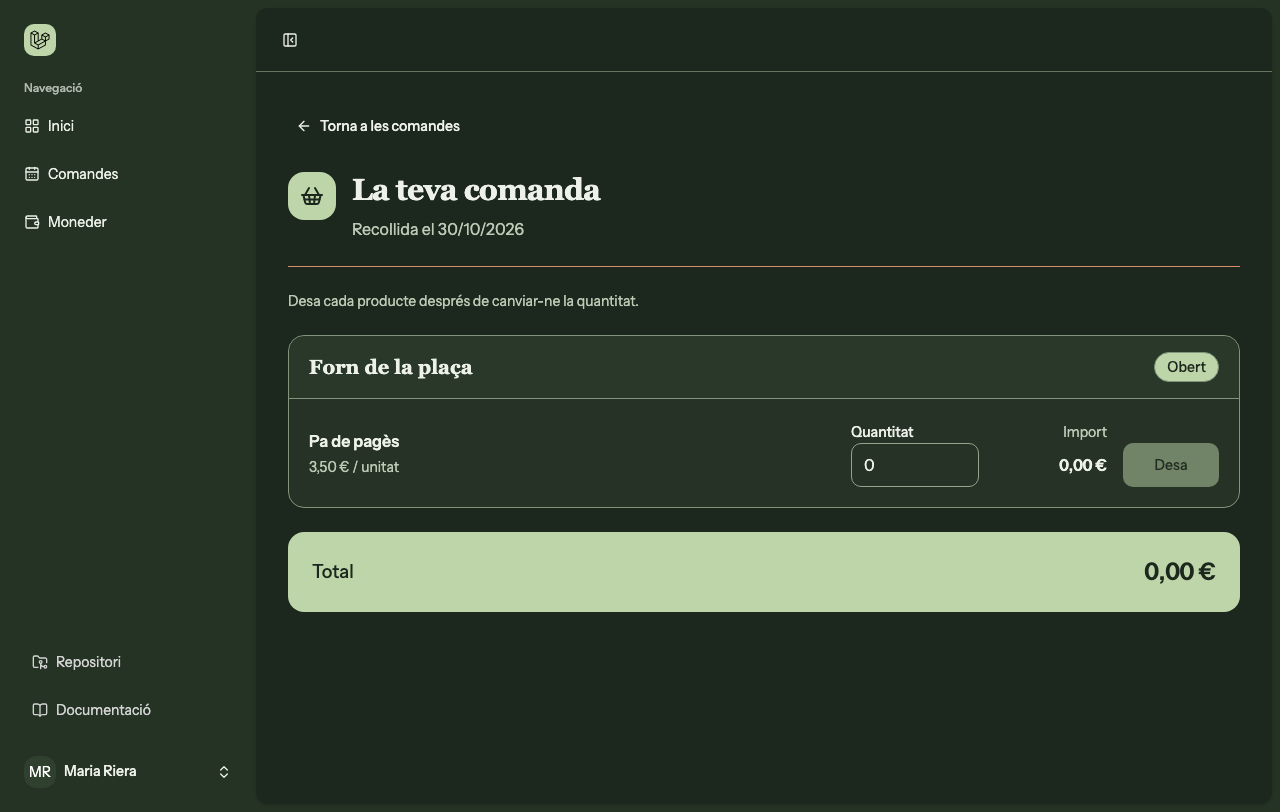
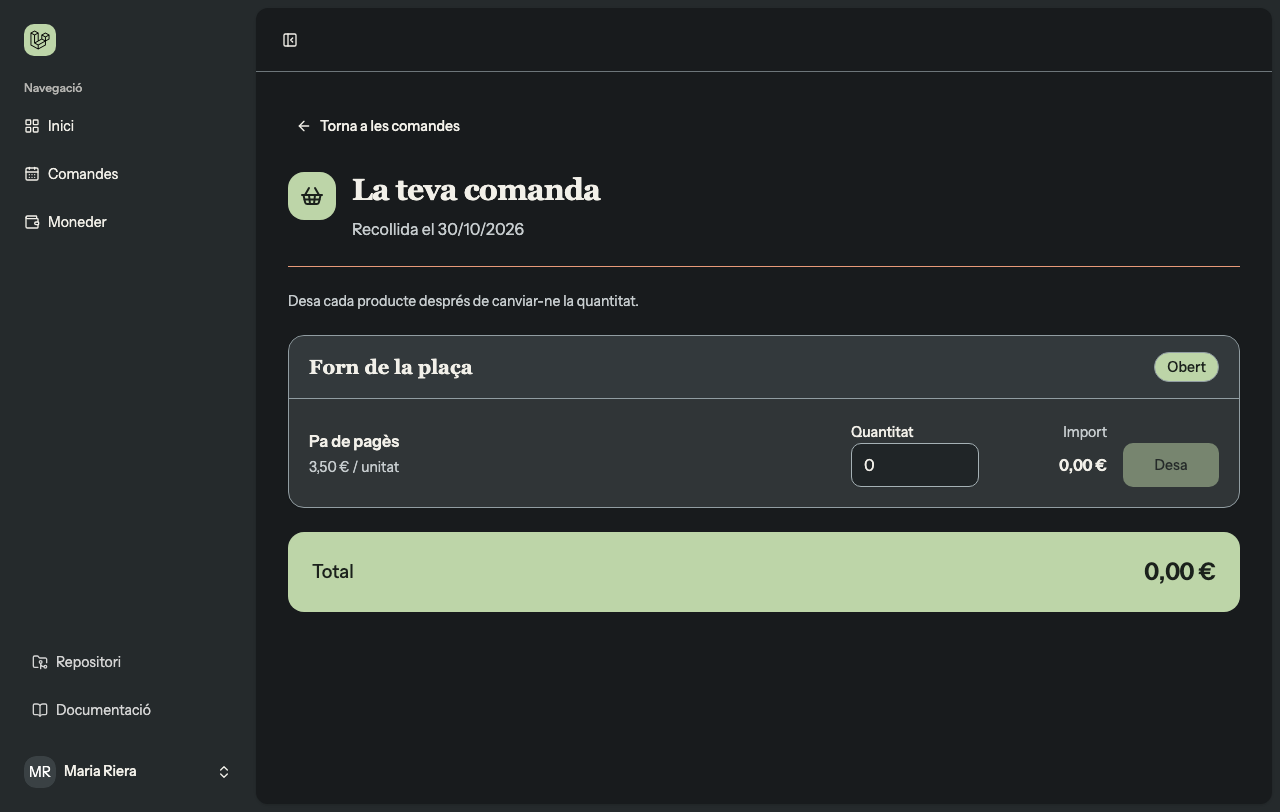
fix(ui): clarify scoped dark surfaces (DRA-190)

Changed region(s): [[0.25, 0.5542, 0.2812, 0.585]]

diff --git a/resources/css/app.css b/resources/css/app.css
@@ -202,39 +202,40 @@
 }
 
 .dark .pilot-theme {
-    --background: #1c271d;
-    --foreground: #edf1e8;
-    --card: #263226;
-    --card-foreground: #edf1e8;
-    --popover: #2b382a;
-    --popover-foreground: #edf1e8;
+    --background: #181b1d;
+    --foreground: #f2f0e9;
+    --card: #303537;
+    --card-foreground: #f2f0e9;
+    --popover: #3b4245;
+    --popover-foreground: #f2f0e9;
     --primary: #bdd5a8;
-    --primary-foreground: #1c271d;
-    --secondary: #354936;
-    --secondary-foreground: #edf1e8;
-    --muted: #30402f;
-    --muted-foreground: #bbcbb5;
-    --accent: #563c32;
-    --accent-foreground: #fff0e8;
-    --destructive: #f19a8f;
-    --destructive-foreground: #231e1c;
-    --border: #81957c;
-    --input: #93a58c;
+    --primary-foreground: #1b211c;
+    --secondary: #3c4346;
+    --secondary-foreground: #f2f0e9;
+    --muted: #3a4144;
+    --muted-foreground: #c7cdcf;
+    --accent: #454c4f;
+    --accent-foreground: #f2f0e9;
+    --destructive: #f5a39b;
+    --destructive-foreground: #241c1c;
+    --border: #919da2;
+    --input: #a5b1b5;
     --ring: #bdd5a8;
-    --sidebar-background: #243324;
-    --sidebar-foreground: #edf1e8;
+    --sidebar-background: #252a2c;
+    --sidebar-foreground: #f2f0e9;
     --sidebar-primary: #bdd5a8;
-    --sidebar-primary-foreground: #1c271d;
-    --sidebar-accent: #354936;
-    --sidebar-accent-foreground: #edf1e8;
-    --sidebar-border: #81957c;
+    --sidebar-primary-foreground: #1b211c;
+    --sidebar-accent: #3f4a41;
+    --sidebar-accent-foreground: #f2f0e9;
+    --sidebar-border: #919da2;
     --sidebar-ring: #bdd5a8;
-    --sidebar: #243324;
-    --pilot-terracotta: #d98b6d;
-    --pilot-success: #9addb4;
-    --pilot-success-foreground: #1c271d;
-    --pilot-warning: #f0c578;
-    --pilot-warning-foreground: #1c271d;
+    --sidebar: #252a2c;
+    --pilot-terracotta: #e79a79;
+    --pilot-success: #a1dbb2;
+    --pilot-success-foreground: #19231d;
+    --pilot-warning: #f3ce85;
+    --pilot-warning-foreground: #2a2113;
+    --pilot-input-fill: #202527;
 }
 
 .pilot-theme .order-page-header {
@@ -251,6 +252,14 @@
 
 .pilot-theme [data-test^='quantity-'] {
     background-color: var(--card);
+}
+
+.dark .pilot-theme [data-test^='quantity-'] {
+    background-color: var(--pilot-input-fill);
+}
+
+.dark .pilot-theme[data-slot='dialog-content'] {
+    background-color: var(--popover);
 }
 
 .pilot-theme .order-page-header > div:last-child {

diff --git a/docs/visual-checks/dra-190.md b/docs/visual-checks/dra-190.md
@@ -19,7 +19,7 @@ mocked; the screenshots are not authenticated end-to-end evidence and save does 
 
 | View and state                                                             | 375 px evidence                                                                                                                                                                                                                                                                                                                                                                                                                      | Desktop evidence                                                                                                               |
 | -------------------------------------------------------------------------- | ------------------------------------------------------------------------------------------------------------------------------------------------------------------------------------------------------------------------------------------------------------------------------------------------------------------------------------------------------------------------------------------------------------------------------------ | ------------------------------------------------------------------------------------------------------------------------------ |
-| Cycle list, populated light/dark                                           | [light](../../.vitest/dra190-visual/dra190-index-light-375.png), [dark](../../.vitest/dra190-visual/dra190-index-dark-375.png)                                                                                                                                                                                                                                                                                                       | [light](../../.vitest/dra190-visual/dra190-index-light-1280.png)                                                               |
+| Cycle list, populated light/dark                                           | [light](../../.vitest/dra190-visual/dra190-index-light-375.png), [dark](../../.vitest/dra190-visual/dra190-index-dark-375-chrome.png)                                                                                                                                                                                                                                                                                                | [light](../../.vitest/dra190-visual/dra190-index-light-1280.png)                                                               |
 | Cycle list, no cycles                                                      | [empty](../../.vitest/dra190-visual/dra190-no-cycles-light-375.png)                                                                                                                                                                                                                                                                                                                                                                  | Same responsive component                                                                                                      |
 | Order editor, editable light/dark                                          | [saving](../../.vitest/dra190-visual/dra190-saving-light-375.png)                                                                                                                                                                                                                                                                                                                                                                    | [light](../../.vitest/dra190-visual/dra190-edit-light-1280.png), [dark](../../.vitest/dra190-visual/dra190-edit-dark-1280.png) |
 | Editor with no producer, error, closed, cancelled, marked                  | [no producer](../../.vitest/dra190-visual/dra190-empty-light-375.png), [error light](../../.vitest/dra190-visual/dra190-error-light-375.png), [error dark](../../.vitest/dra190-visual/dra190-error-dark-375-cdp.png), [closed](../../.vitest/dra190-visual/dra190-closed-light-375.png), [cancelled](../../.vitest/dra190-visual/dra190-cancelled-light-375.png), [marked](../../.vitest/dra190-visual/dra190-marked-light-375.png) | Same responsive component                                                                                                      |
@@ -30,6 +30,28 @@ mocked; the screenshots are not authenticated end-to-end evidence and save does 
 | Keyboard focus, font fallback, dark dialog                                 | [focus](../../.vitest/dra190-visual/dra190-focus-light-375.png), [fallback](../../.vitest/dra190-visual/dra190-fallback-light-375.png)                                                                                                                                                                                                                                                                                               | [dialog](../../.vitest/dra190-visual/dra190-dialog-dark-1280.png)                                                              |
 | Excluded layout placeholder                                                | [neutral baseline](../../.vitest/dra190-visual/dra190-outside-light-375.png)                                                                                                                                                                                                                                                                                                                                                         | Not captured                                                                                                                   |
 | Real Welcome component, excluded from theme                                | [375 px](../../.vitest/dra190-visual/dra190-welcome-light-375-chrome.png)                                                                                                                                                                                                                                                                                                                                                            | [1280 px](../../.vitest/dra190-visual/dra190-welcome-light-1280-chrome.png)                                                    |
+
+## Dark visual refinement after feedback
+
+The user reported: “Comprovant el mode dark, veig que és molt verd tot i costa diferenciar més els
+elements.” The revised dark pilot uses neutral charcoal steps: canvas `rgb(24, 27, 29)`, card
+`rgb(48, 53, 55)`, sidebar/sheet `rgb(37, 42, 44)`, dropdown/dialog `rgb(59, 66, 69)` and inset
+quantity input `rgb(32, 37, 39)`. Olive is concentrated in primary actions, selected navigation,
+focus and the order icon. The light token block and light layout are unchanged.
+
+The refreshed dark captures show [Index at 375 px](../../.vitest/dra190-visual/dra190-index-dark-375-chrome.png)
+and [1280 px](../../.vitest/dra190-visual/dra190-index-dark-1280-cdp.png),
+[Edit at 375 px](../../.vitest/dra190-visual/dra190-edit-dark-375-cdp.png) and
+[1280 px](../../.vitest/dra190-visual/dra190-edit-dark-1280-chrome.png),
+[the mobile sheet](../../.vitest/dra190-visual/dra190-sheet-dark-375-cdp.png),
+[user dropdown](../../.vitest/dra190-visual/dra190-menu-dark-1280-cdp.png),
+[dialog](../../.vitest/dra190-visual/dra190-dialog-dark-1280.png) and
+[focused error state](../../.vitest/dra190-visual/dra190-error-dark-375-cdp.png).
+The task-local CDP probe runs these with `node .vitest/dra190-visual/check.mjs --dark-only`; it
+loads the existing local Instrument Sans faces and sets true 375/1280 px viewports. Index and Edit
+had `scrollWidth=innerWidth` (375 or 1280). System mode at 200% text remained dark and had no
+horizontal page overflow at 375 px. These are rendered fixture checks with mocked Inertia data;
+they do not persist an order.
 
 At 375 px, `document.documentElement.scrollWidth` was 375 or less in the captured states, including
 200% root text (32 px) and the settled pickup. At 1280 px it was 1280 or less. The order header
@@ -94,19 +116,23 @@ Use a fresh temporary profile path for a repeat run. Remove the force flag to pr
 
 ## Contrast and focused regression
 
-Calculated WCAG contrast from the token pairs: light body 12.15:1, card 13.25:1, primary
-button 7.40:1, muted text 6.37:1; dark body 13.52:1, card 11.71:1, primary button 9.76:1,
-muted text 6.49:1. The real editor error text resolves to `rgb(158, 52, 46)` on light cream
-(6.35:1), and `rgb(241, 154, 143)` on dark background (7.19:1). The quantity input now uses
-the card fill on both appearances; its unfocused border resolves to `rgb(112, 132, 106)` on
-`rgb(255, 253, 248)` (3.97:1) in light mode and `rgb(147, 165, 140)` on `rgb(38, 50, 38)`
-(5.11:1) in dark mode. Its keyboard focus border/outline resolves to `rgb(63, 93, 58)` (7.28:1)
-light and `rgb(189, 213, 168)` (8.46:1) dark against the same fills. The sage sidebar boundary
-is 3.31:1. Disabled buttons retain the existing disabled semantics and are identifiable by their
-labels and context.
+Calculated WCAG contrast from rendered colors: light body 12.15:1, card 13.25:1, primary
+button 7.40:1, muted text 6.37:1. In the revised dark palette, warm text is 15.18:1 on canvas,
+10.90:1 on cards, 12.73:1 in the sidebar and 8.98:1 in dropdowns/dialogs. Neutral muted text is
+7.73:1 on cards and 6.37:1 on popovers. The primary button pair is 10.34:1. The real editor
+error text resolves to `rgb(158, 52, 46)` on light cream (6.35:1) and `rgb(245, 163, 155)` on
+dark canvas (8.73:1). The light quantity input remains a card-fill surface with
+`rgb(112, 132, 106)` border (3.97:1); the dark input is inset `rgb(32, 37, 39)` with
+`rgb(165, 177, 181)` border (7.05:1). Keyboard focus outlines measure 7.28:1 light and 9.77:1
+dark against their input fills. Dark card and popover borders measure 4.47:1 and 3.68:1 against
+their surfaces. The sage sidebar boundary is 3.31:1 in light mode. Disabled buttons retain the
+existing disabled semantics and are identifiable by their labels and context.
 
 `php artisan test --filter=OrdersPagesTest` passed 25 tests / 223 assertions on the isolated test
 database. Four focused frontend test files passed 18 tests. The mounted editor test
 checks Enter sends the explicit per-line PUT with `quantity`, `only: ['order', 'errors']` and
 `preserveScroll`. Existing HTTP and SSR checks cover role access, routes, marked removal, cancelled,
 pickup and read-only stock/return presentation. Full suites, full type analysis and CI remain pending.
+The dark-only refinement reran the four frontend files (18 passed) and rendered CDP measurements;
+the PHP result above is from the preceding unchanged behavior candidate and was not rerun for
+this color-only change.

diff --git a/specs/001-weekly-orders/log.md b/specs/001-weekly-orders/log.md
@@ -969,3 +969,14 @@ dialog and sheet backdrops now carry the same reactive pilot boundary as their c
 reduced-motion handling. A true 375 px CDP viewport replaced cropped command-line Chrome mobile
 captures; Welcome and both ordering appearances showed no horizontal page overflow. The task-local
 visual evidence was refreshed with computed colors, focus and motion measurements.
+
+
+## 2026-10-25 · Deviation
+
+T39 post-publication visual feedback: “Comprovant el mode dark, veig que és molt verd tot i costa
+diferenciar més els elements.” The dark-only pilot tokens now use stepped neutral charcoal/slate
+canvas, cards, sidebar and popover surfaces with warm off-white text; olive stays on primary,
+selected and focus states. The quantity input has a darker neutral inset, and the dialog panel
+uses the popover surface to separate it from the canvas. The light token block, scope and ordering
+behavior are unchanged. This adjusts the accepted pilot's dark presentation before visual
+approval of any wider rollout.

diff --git a/specs/001-weekly-orders/plan.md b/specs/001-weekly-orders/plan.md
@@ -626,6 +626,12 @@ focus and disabled states. Keep destructive, warning and success states distinct
 and accompany meaningful status colors with text or icons. Derive dark-theme counterparts rather
 than reusing light surface values; check the same states in both themes.
 
+The 2026-10-25 T39 visual review refined the dark counterpart after the user found the first
+render too uniformly green. Its canvas, cards, sidebar and popovers use stepped neutral charcoal
+surfaces with warm off-white text and neutral muted text. Olive remains on primary actions,
+selected navigation and focus; quantity inputs sit on a darker neutral inset. The light palette
+anchors above and all ordering behavior remain unchanged.
+
 - **Typography:** retain Instrument Sans for body text, navigation, forms, tables and amounts. Add a
   shared heading token with `Georgia, serif` as the initial system-font proposal, reserved for page
   titles and prominent section headings. Check Catalan diacritics, wrapping and hierarchy in the
